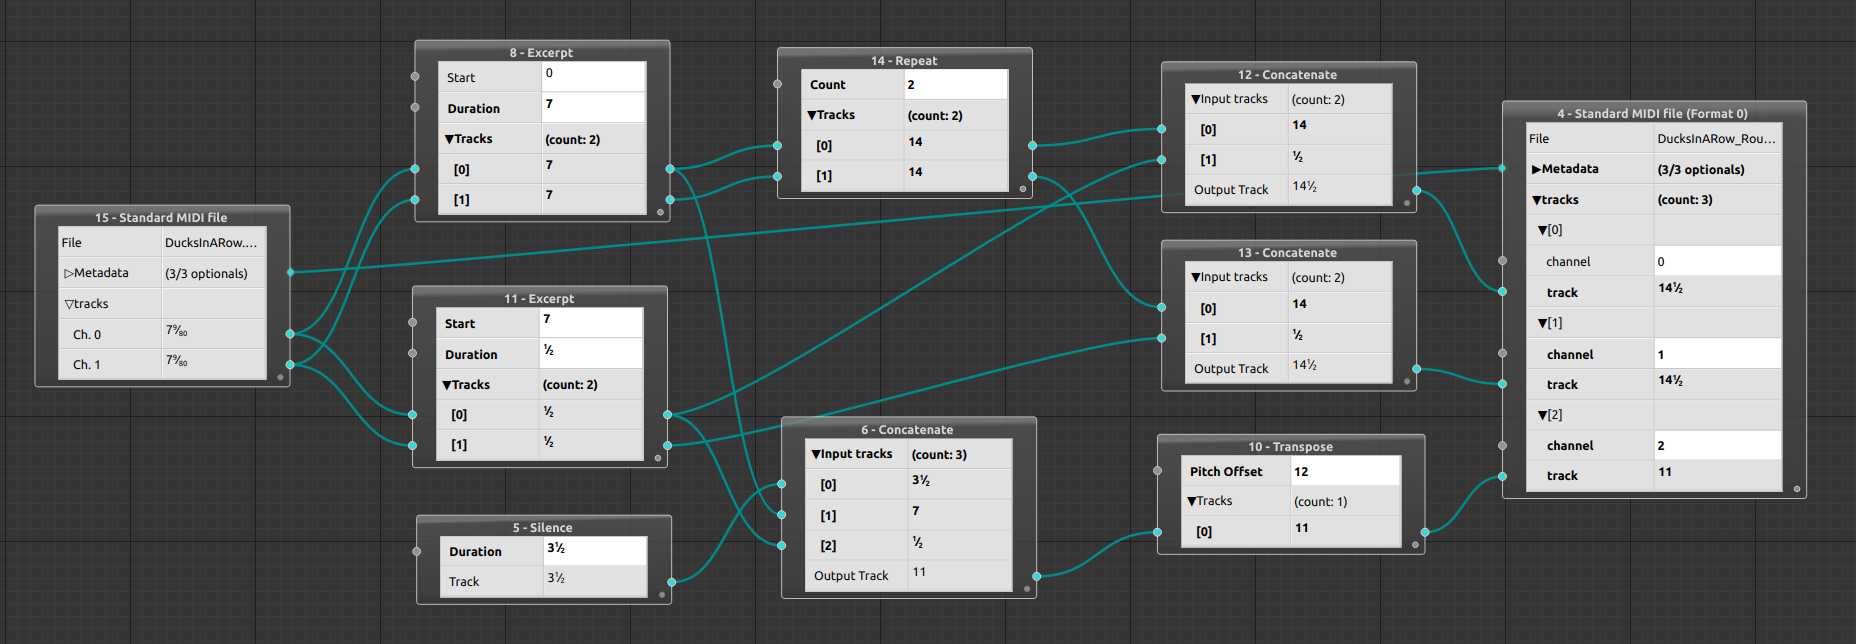
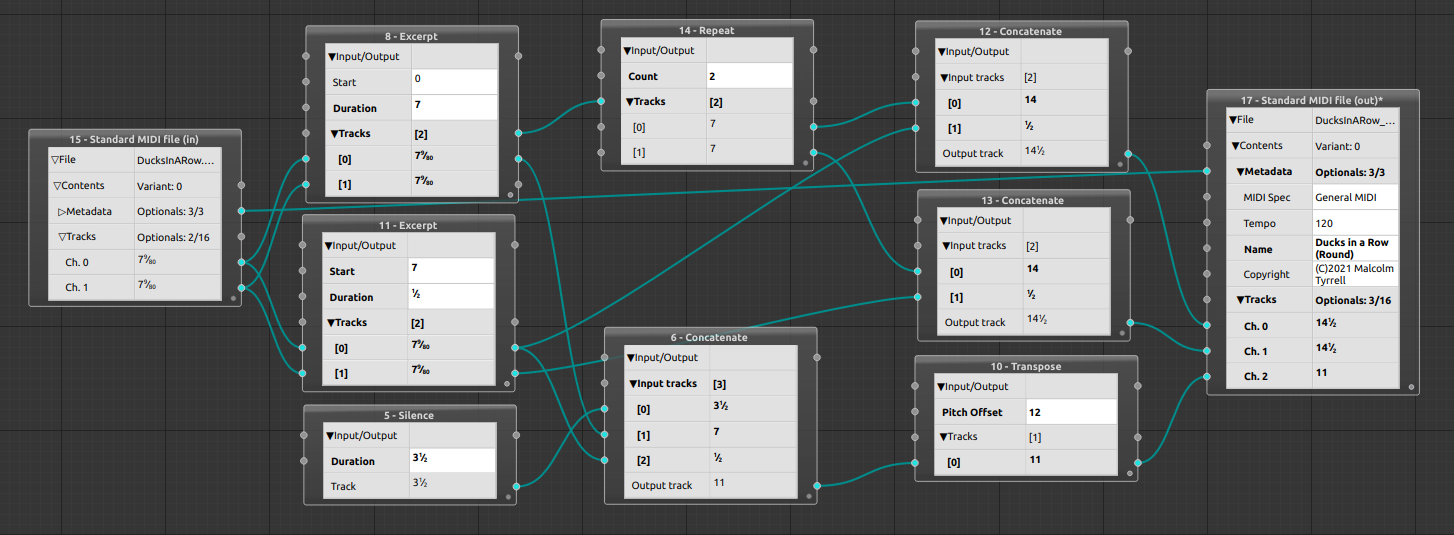
Tweaks to row representation in UI

diff --git a/BabelWiresLib/Types/Record/recordType.cpp b/BabelWiresLib/Types/Record/recordType.cpp
@@ -314,14 +314,15 @@ babelwires::SubtypeOrder babelwires::RecordType::compareSubtypeHelper(const Type
 
 std::string babelwires::RecordType::valueToString(const TypeSystem& typeSystem, const ValueHolder& v) const {
     const RecordValue& recordValue = v->is<RecordValue>();
-    const unsigned int numActivatedFields = getNumActiveFields(v);
     const unsigned int numOptionalFields = m_optionalFieldIds.size();
-    const unsigned int numChildren = m_fields.size() - numOptionalFields + numActivatedFields;
-    std::ostringstream os;
-    os << "{" << numChildren;
     if (numOptionalFields > 0) {
-        os << " (" << numActivatedFields << "/" << numOptionalFields << " optional)";
+        const unsigned int numActivatedFields = getNumActiveFields(v);
+        std::ostringstream os;
+        if (numOptionalFields > 0) {
+            os << "Optionals: " << numActivatedFields << "/" << numOptionalFields;
+        }
+        return os.str();
+    } else {
+        return {};
     }
-    os << "}";
-    return os.str();
 }

diff --git a/BabelWiresLib/Types/RecordWithVariants/recordWithVariantsType.cpp b/BabelWiresLib/Types/RecordWithVariants/recordWithVariantsType.cpp
@@ -356,7 +356,7 @@ std::string babelwires::RecordWithVariantsType::valueToString(const TypeSystem& 
     std::ostringstream os;
     const RecordWithVariantsValue* const recordValue = v->as<RecordWithVariantsValue>();
     auto identifierRegistry = IdentifierRegistry::read();
-    os << "{" << getNumChildren(v) << " (" << identifierRegistry->getName(recordValue->getTag()) << ")}";
+    os << "Variant: " << identifierRegistry->getName(recordValue->getTag());
     return os.str();
 }
 
